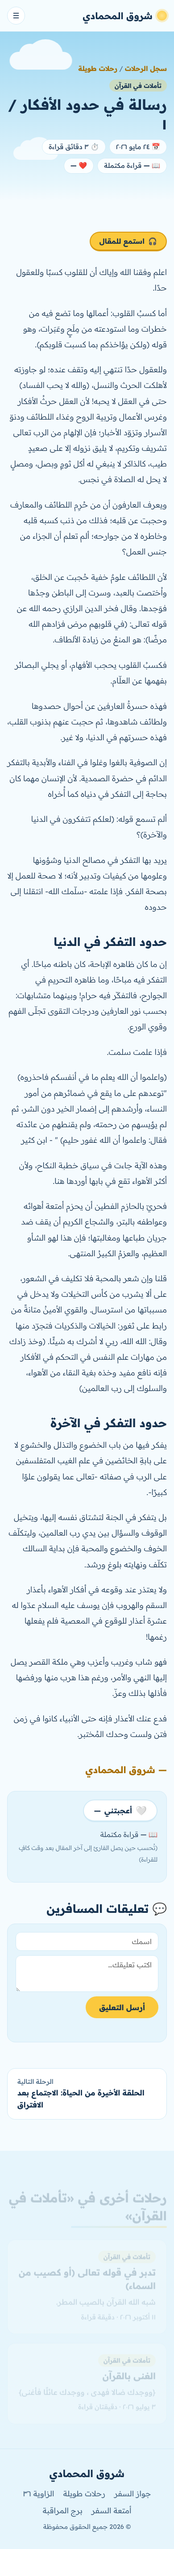
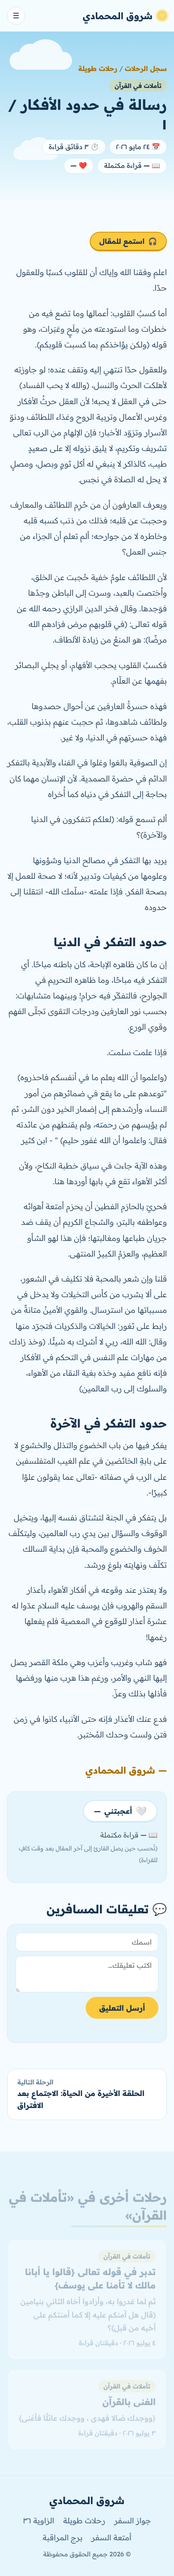
Add the article on {قالوا يا أبانا مالك لا تأمنا على يوسف}
Claude-Session: https://claude.ai/code/session_0148avAa54TH8wvGnnB1ukQi

diff --git a/blog/articles/la-tamanna-ala-yusuf.html b/blog/articles/la-tamanna-ala-yusuf.html
@@ -1,0 +1,132 @@
+<!doctype html>
+<html lang="ar" dir="rtl">
+<head>
+  <meta charset="utf-8">
+  <meta name="viewport" content="width=device-width, initial-scale=1">
+  <title>تدبر في قوله تعالى {قالوا يا أبانا مالك لا تأمنا على يوسف} · شروق المحمادي</title>
+  <meta name="description" content="ثم لما غدروا به، وأرادوا أخاه الثاني بنيامين (قال هل آمنكم عليه إلا كما أمنتكم على أخيه من قبل)؟">
+  <script>try{var t=localStorage.getItem("theme");if(t)document.documentElement.dataset.theme=t;}catch(e){}</script>
+  <link rel="preconnect" href="https://fonts.googleapis.com">
+  <link rel="preconnect" href="https://fonts.gstatic.com" crossorigin>
+  <link href="https://fonts.googleapis.com/css2?family=Readex+Pro:wght@300;400;500;600;700&family=Amiri+Quran&display=swap" rel="stylesheet">
+  <link rel="stylesheet" href="../../assets/styles.css">
+</head>
+<body>
+  <header class="site-header">
+    <div class="container nav">
+      <a href="../../index.html" class="logo"><span class="logo-sun" aria-hidden="true"></span>شروق المحمادي</a>
+      <button class="menu-toggle" aria-label="فتح القائمة" aria-expanded="false">☰</button>
+      <nav class="nav-links" aria-label="القائمة الرئيسية">
+        <a href="../../index.html">صالة المغادرة</a>
+        <a href="../../sira.html">جواز السفر</a>
+        <div class="has-sub">
+          <a href="../../blog/index.html" class="active">سجل الرحلات <span class="caret" aria-hidden="true">▾</span></a>
+          <div class="sub">
+            <a href="../../blog/articles.html" class="active">رحلات طويلة</a>
+            <a href="../../blog/zawiya-36.html">الزاوية ٣٦</a>
+          </div>
+        </div>
+        <a href="../../books.html">أمتعة السفر</a>
+        <a href="../../contact.html">برج المراقبة</a>
+        <button class="theme-toggle" aria-label="تبديل الوضع الليلي">🌙</button>
+      </nav>
+    </div>
+  </header>
+
+  <main>
+    <section class="page-hero article-hero">
+      <div class="clouds" aria-hidden="true"><span class="cloud c1"></span><span class="cloud c2"></span></div>
+      <div class="container narrow">
+        <nav class="crumbs" aria-label="مسار التنقل"><a href="../index.html">سجل الرحلات</a> / <a href="../articles.html">رحلات طويلة</a></nav>
+        <span class="tag">تأملات في القرآن</span>
+        <h1>تدبر في قوله تعالى {قالوا يا أبانا مالك لا تأمنا على يوسف}</h1>
+        <ul class="post-meta">
+          <li>📅 ٤ يوليو ٢٠٢٦</li>
+          <li>⏱ دقيقتان قراءة</li>
+          <li>📖 <b class="read-count">…</b> قراءة مكتملة</li>
+          <li>❤ <b class="like-count">…</b></li>
+        </ul>
+      </div>
+    </section>
+
+    <article class="section" id="post" data-slug="la-tamanna-ala-yusuf" data-minutes="1.94">
+      <div class="container narrow prose">
+        <div class="listen" hidden>
+          <button class="listen-btn" type="button"><span class="listen-icon" aria-hidden="true">🎧</span> <span class="listen-label">استمع للمقال</span></button>
+          <button class="listen-stop" type="button" hidden>⏹ إيقاف</button>
+          <button class="listen-rate" type="button" hidden>السرعة ١×</button>
+          <span class="listen-status" role="status"></span>
+        </div>
+        <p>ثم لما غدروا به، وأرادوا أخاه الثاني بنيامين (قال هل آمنكم عليه إلا كما أمنتكم على أخيه من قبل)؟</p>
+        <p>تدبر الكلمات المشتركة: تأمنا، آمنكم؟</p>
+        <p>الإنسان يعطي الثقة والأمان مرة واحدة، ثم إذا جُرح يشك ألف مرة ولا يثق ولا يعطِ الأمان</p>
+        <p>من فطنة يعقوب عليه السلام أنه لما أصروا عليه في أخذ بنيامين أنه أخذ عليهم العهود والمواثيق واستثنى (قال لن أرسله معكم حتى تأتوني موثقًا من الله لتأتونني به إلا أن يحاط بكم) وفيه أن للمغدور ألا يثق بالغادر ولو لمرة كانت غدرته، وإعطاء الأمان له لا يكون إلا بالحيطة والحذر والاحتراز والاحتراس بأخذ المواثيق والكتابة والعقد والشهود وغيرها من وسائل ليأمن حقه ويحفظه صيانةً</p>
+        <p>طبيعة العقل البشري: البناء على الحُكم والتجربة الأولى. ولهذا لما قالوا له عن أخذ العزيز لبنيامين وهم صادقون الآن (قال بل سولت لكم أنفسكم أمرًا). وهو قالها لأنه بشر تجري عليه طبيعة الأحكام البشرية الفطرية وإلا فإن نبي الله يعقوب عليه السلام قد مدح الله علمه (وإنه لذو علم لما علمناه) فكل ماقاله لا يقدح في علمه.</p>
+        <p>ورغم تألمه من مرارة التجربتين (فقد يوسف وبنيامين) كان حسن ظنه بالله عالٍ جدًا وهذا والله أعلم هو علمه الممدوح وما يثمره العلم من خشية وحسن الظن (قال بل سولت لكم أنفسكم أمرًا فصبر جميل عسى الله أن يأتيني بهم جميعًا إنه هو العليم الحكيم) وقوله (يا بني اذهبوا فتحسسوا من يوسف وأخيه ولا تيأسوا من روح الله إنه لا ييأس من روح الله إلا القوم الكافرون).</p>
+        <p>ونستفيد من هذا أن الإنسان لا يحكم على التجربة الأولى لأنها فشلت وخابت؛ فقد يكون في التجربة الثانية نجاحًا وفلاحًا عظيمًا.</p>
+        <p>والبناء على التجربة الأولى (يذكره بمشاعر الإحباط والكره واليأس وغيرها) يضيّع عليه فُرص الفهم والعلاقات والإنتاج والعمل والكثير من المنافع الضائعة كانت لأننا بنينا على مرارة الأولى</p>
+        <p>وألا يحكم الإنسان على الخلق والناس بنفس المنظور والتصور فإنه من ضيق النفس والجهل، ولكن ينوّع الأحكام عليهم بين حسن ظن وسوء</p>
+        <p>وقال د.وهبه الزحيلي في صفات القاضي:</p>
+        <p>"معرفة الناس وأحوالهم، والتبصر بمكرهم وخداعهم، ولا ينبغي أن يُحسن الظن بهم، بل يكون حذرًا فطنًا مما يصورونه في سؤالاتهم، لعلّا يبرعوا في المكروه، ويزيده حديث: «احترسوا من الناس بسوء الظن»."</p>
+        <p>ومنها أن يطلع على قصص المكائد والخدع والمكر ويُجالس أعدءاه وأصدقاءه ليكتسب هذا العلم! فإنه ليس في الكتب بل في المجالس.</p>
+        <p>حتى لا يكون مخدوعًا ويكون فطنًا نبيهًا، لأن من يقع في الخديعة بسبب جهله بها، وكل خديعة ما انطلت عليك فذلك لتوفيق الله لك أولًا ثم لعلمك بها ثانيًا</p>
+        <p class="signature">— شروق المحمادي</p>
+        <div class="engage">
+          <button class="like-btn" type="button" aria-pressed="false"><span class="heart" aria-hidden="true">🤍</span> أعجبتني <b class="like-count">…</b></button>
+          <p class="reads-note">📖 <b class="read-count">…</b> قراءة مكتملة <small>(تُحسب حين يصل القارئ إلى آخر المقال بعد وقت كافٍ للقراءة)</small></p>
+        </div>
+        <section class="comments" hidden aria-labelledby="comments-title">
+          <h2 id="comments-title">💬 تعليقات المسافرين</h2>
+          <form class="comment-form" novalidate>
+            <input name="name" type="text" maxlength="40" placeholder="اسمك" aria-label="الاسم" autocomplete="nickname">
+            <textarea name="body" rows="3" maxlength="1000" placeholder="اكتب تعليقك…" aria-label="التعليق"></textarea>
+            <input name="website" class="hp" type="text" tabindex="-1" autocomplete="off" aria-hidden="true">
+            <button type="submit" class="btn btn-primary">أرسل التعليق</button>
+            <p class="comment-status" role="status"></p>
+          </form>
+          <ol class="comment-list"></ol>
+          <p class="no-comments" hidden>لا تعليقات بعد… كن أول من يعلّق ✈</p>
+        </section>
+        <nav class="post-nav" aria-label="تنقل بين الرحلات"><a class="pn prev" href="al-ghina-bil-quran.html"><span>الرحلة السابقة</span>الغنى بالقرآن</a></nav>
+      </div>
+    </article>
+
+    <section class="section alt">
+      <div class="container">
+        <h2 class="section-title">رحلات أخرى في «تأملات في القرآن»</h2>
+        <div class="posts">
+          <article class="post-card" data-tag="تأملات في القرآن">
+            <span class="tag">تأملات في القرآن</span>
+            <h3><a class="stretched" href="../articles/al-ghina-bil-quran.html">الغنى بالقرآن</a></h3>
+            <p>{ووجدك ضالا فهدى ، ووجدك عائلًا فأغنى}</p>
+            <p class="meta">٣ يوليو ٢٠٢٦ · دقيقتان قراءة</p>
+          </article>
+          <article class="post-card" data-tag="تأملات في القرآن">
+            <span class="tag">تأملات في القرآن</span>
+            <h3><a class="stretched" href="../articles/aw-ka-sayyib.html">تدبر في قوله تعالى (أو كصيب من السماء)</a></h3>
+            <p>شبه الله القرآن بالصيب المطر.</p>
+            <p class="meta">٣ يوليو ٢٠٢٦ · دقيقة قراءة</p>
+          </article>
+        </div>
+      </div>
+    </section>
+
+  </main>
+
+  <footer class="site-footer">
+    <div class="container footer-inner">
+      <p class="footer-name">شروق المحمادي</p>
+      <nav class="footer-links" aria-label="روابط التذييل">
+        <a href="../../sira.html">جواز السفر</a>
+        <a href="../../blog/articles.html">رحلات طويلة</a>
+        <a href="../../blog/zawiya-36.html">الزاوية ٣٦</a>
+        <a href="../../books.html">أمتعة السفر</a>
+        <a href="../../contact.html">برج المراقبة</a>
+      </nav>
+      <p class="copy">© <span class="year"></span> جميع الحقوق محفوظة</p>
+    </div>
+  </footer>
+
+  <script src="../../assets/script.js"></script>
+</body>
+</html>

diff --git a/blog/articles/al-ghina-bil-quran.html b/blog/articles/al-ghina-bil-quran.html
@@ -87,7 +87,7 @@
           <ol class="comment-list"></ol>
           <p class="no-comments" hidden>لا تعليقات بعد… كن أول من يعلّق ✈</p>
         </section>
-        <nav class="post-nav" aria-label="تنقل بين الرحلات"><a class="pn prev" href="aw-ka-sayyib.html"><span>الرحلة السابقة</span>تدبر في قوله تعالى (أو كصيب من السماء)</a></nav>
+        <nav class="post-nav" aria-label="تنقل بين الرحلات"><a class="pn prev" href="aw-ka-sayyib.html"><span>الرحلة السابقة</span>تدبر في قوله تعالى (أو كصيب من السماء)</a><a class="pn next" href="la-tamanna-ala-yusuf.html"><span>الرحلة التالية</span>تدبر في قوله تعالى {قالوا يا أبانا مالك لا تأمنا على يوسف}</a></nav>
       </div>
     </article>
 
@@ -97,15 +97,15 @@
         <div class="posts">
           <article class="post-card" data-tag="تأملات في القرآن">
             <span class="tag">تأملات في القرآن</span>
-            <h3><a class="stretched" href="../articles/aw-ka-sayyib.html">تدبر في قوله تعالى (أو كصيب من السماء)</a></h3>
-            <p>شبه الله القرآن بالصيب المطر.</p>
-            <p class="meta">٣ يوليو ٢٠٢٦ · دقيقة قراءة</p>
+            <h3><a class="stretched" href="../articles/la-tamanna-ala-yusuf.html">تدبر في قوله تعالى {قالوا يا أبانا مالك لا تأمنا على يوسف}</a></h3>
+            <p>ثم لما غدروا به، وأرادوا أخاه الثاني بنيامين (قال هل آمنكم عليه إلا كما أمنتكم على أخيه من قبل)؟</p>
+            <p class="meta">٤ يوليو ٢٠٢٦ · دقيقتان قراءة</p>
           </article>
           <article class="post-card" data-tag="تأملات في القرآن">
             <span class="tag">تأملات في القرآن</span>
-            <h3><a class="stretched" href="../articles/wa-in-kana-makruhum.html">تأملات في قول الله تعالى (وإن كان مكرهم لتزول منه الجبال)</a></h3>
-            <p>أن من تعرض للمكر والكيد والظلم؛ فيه دلالةٌ على عظمته؛ لأن الله قاسها على الجبل وهي أعظم مخلوقاته، ودليل على عظمة محمد صلى الله عليه وسلم.</p>
-            <p class="meta">٢ يوليو ٢٠٢٦ · دقيقة قراءة</p>
+            <h3><a class="stretched" href="../articles/aw-ka-sayyib.html">تدبر في قوله تعالى (أو كصيب من السماء)</a></h3>
+            <p>شبه الله القرآن بالصيب المطر.</p>
+            <p class="meta">٣ يوليو ٢٠٢٦ · دقيقة قراءة</p>
           </article>
         </div>
       </div>

diff --git a/blog/index.html b/blog/index.html
@@ -50,7 +50,7 @@
             <span class="door-icon">✍</span>
             <h2>رحلات طويلة</h2>
             <p>نصوص أطول أتعمّق فيها في فكرة أو تجربة أو كتاب.</p>
-            <span class="count">٥ رحلات</span>
+            <span class="count">٦ رحلات</span>
           </a>
           <a class="blog-door night" href="zawiya-36.html">
             <span class="door-icon">🌙</span>
@@ -71,6 +71,12 @@
         <div class="posts">
           <article class="post-card" data-tag="تأملات في القرآن">
             <span class="tag">تأملات في القرآن</span>
+            <h3><a class="stretched" href="articles/la-tamanna-ala-yusuf.html">تدبر في قوله تعالى {قالوا يا أبانا مالك لا تأمنا على يوسف}</a></h3>
+            <p>ثم لما غدروا به، وأرادوا أخاه الثاني بنيامين (قال هل آمنكم عليه إلا كما أمنتكم على أخيه من قبل)؟</p>
+            <p class="meta">٤ يوليو ٢٠٢٦ · دقيقتان قراءة</p>
+          </article>
+          <article class="post-card" data-tag="تأملات في القرآن">
+            <span class="tag">تأملات في القرآن</span>
             <h3><a class="stretched" href="articles/al-ghina-bil-quran.html">الغنى بالقرآن</a></h3>
             <p>{ووجدك ضالا فهدى ، ووجدك عائلًا فأغنى}</p>
             <p class="meta">٣ يوليو ٢٠٢٦ · دقيقتان قراءة</p>
@@ -80,12 +86,6 @@
             <h3><a class="stretched" href="articles/aw-ka-sayyib.html">تدبر في قوله تعالى (أو كصيب من السماء)</a></h3>
             <p>شبه الله القرآن بالصيب المطر.</p>
             <p class="meta">٣ يوليو ٢٠٢٦ · دقيقة قراءة</p>
-          </article>
-          <article class="post-card" data-tag="تأملات في القرآن">
-            <span class="tag">تأملات في القرآن</span>
-            <h3><a class="stretched" href="articles/wa-in-kana-makruhum.html">تأملات في قول الله تعالى (وإن كان مكرهم لتزول منه الجبال)</a></h3>
-            <p>أن من تعرض للمكر والكيد والظلم؛ فيه دلالةٌ على عظمته؛ لأن الله قاسها على الجبل وهي أعظم مخلوقاته، ودليل على عظمة محمد صلى الله عليه وسلم.</p>
-            <p class="meta">٢ يوليو ٢٠٢٦ · دقيقة قراءة</p>
           </article>
         </div>
       </div>

diff --git a/index.html b/index.html
@@ -77,6 +77,12 @@
         <div class="posts">
           <article class="post-card" data-tag="تأملات في القرآن">
             <span class="tag">تأملات في القرآن</span>
+            <h3><a class="stretched" href="blog/articles/la-tamanna-ala-yusuf.html">تدبر في قوله تعالى {قالوا يا أبانا مالك لا تأمنا على يوسف}</a></h3>
+            <p>ثم لما غدروا به، وأرادوا أخاه الثاني بنيامين (قال هل آمنكم عليه إلا كما أمنتكم على أخيه من قبل)؟</p>
+            <p class="meta">٤ يوليو ٢٠٢٦ · دقيقتان قراءة</p>
+          </article>
+          <article class="post-card" data-tag="تأملات في القرآن">
+            <span class="tag">تأملات في القرآن</span>
             <h3><a class="stretched" href="blog/articles/al-ghina-bil-quran.html">الغنى بالقرآن</a></h3>
             <p>{ووجدك ضالا فهدى ، ووجدك عائلًا فأغنى}</p>
             <p class="meta">٣ يوليو ٢٠٢٦ · دقيقتان قراءة</p>
@@ -86,12 +92,6 @@
             <h3><a class="stretched" href="blog/articles/aw-ka-sayyib.html">تدبر في قوله تعالى (أو كصيب من السماء)</a></h3>
             <p>شبه الله القرآن بالصيب المطر.</p>
             <p class="meta">٣ يوليو ٢٠٢٦ · دقيقة قراءة</p>
-          </article>
-          <article class="post-card" data-tag="تأملات في القرآن">
-            <span class="tag">تأملات في القرآن</span>
-            <h3><a class="stretched" href="blog/articles/wa-in-kana-makruhum.html">تأملات في قول الله تعالى (وإن كان مكرهم لتزول منه الجبال)</a></h3>
-            <p>أن من تعرض للمكر والكيد والظلم؛ فيه دلالةٌ على عظمته؛ لأن الله قاسها على الجبل وهي أعظم مخلوقاته، ودليل على عظمة محمد صلى الله عليه وسلم.</p>
-            <p class="meta">٢ يوليو ٢٠٢٦ · دقيقة قراءة</p>
           </article>
         </div>
       </div>

diff --git a/blog/articles/aw-ka-sayyib.html b/blog/articles/aw-ka-sayyib.html
@@ -100,15 +100,15 @@
         <div class="posts">
           <article class="post-card" data-tag="تأملات في القرآن">
             <span class="tag">تأملات في القرآن</span>
-            <h3><a class="stretched" href="../articles/al-ghina-bil-quran.html">الغنى بالقرآن</a></h3>
-            <p>{ووجدك ضالا فهدى ، ووجدك عائلًا فأغنى}</p>
-            <p class="meta">٣ يوليو ٢٠٢٦ · دقيقتان قراءة</p>
+            <h3><a class="stretched" href="../articles/la-tamanna-ala-yusuf.html">تدبر في قوله تعالى {قالوا يا أبانا مالك لا تأمنا على يوسف}</a></h3>
+            <p>ثم لما غدروا به، وأرادوا أخاه الثاني بنيامين (قال هل آمنكم عليه إلا كما أمنتكم على أخيه من قبل)؟</p>
+            <p class="meta">٤ يوليو ٢٠٢٦ · دقيقتان قراءة</p>
           </article>
           <article class="post-card" data-tag="تأملات في القرآن">
             <span class="tag">تأملات في القرآن</span>
-            <h3><a class="stretched" href="../articles/wa-in-kana-makruhum.html">تأملات في قول الله تعالى (وإن كان مكرهم لتزول منه الجبال)</a></h3>
-            <p>أن من تعرض للمكر والكيد والظلم؛ فيه دلالةٌ على عظمته؛ لأن الله قاسها على الجبل وهي أعظم مخلوقاته، ودليل على عظمة محمد صلى الله عليه وسلم.</p>
-            <p class="meta">٢ يوليو ٢٠٢٦ · دقيقة قراءة</p>
+            <h3><a class="stretched" href="../articles/al-ghina-bil-quran.html">الغنى بالقرآن</a></h3>
+            <p>{ووجدك ضالا فهدى ، ووجدك عائلًا فأغنى}</p>
+            <p class="meta">٣ يوليو ٢٠٢٦ · دقيقتان قراءة</p>
           </article>
         </div>
       </div>

diff --git a/blog/articles/al-ijtima-bad-al-iftiraq.html b/blog/articles/al-ijtima-bad-al-iftiraq.html
@@ -149,15 +149,15 @@
         <div class="posts">
           <article class="post-card" data-tag="تأملات في القرآن">
             <span class="tag">تأملات في القرآن</span>
-            <h3><a class="stretched" href="../articles/al-ghina-bil-quran.html">الغنى بالقرآن</a></h3>
-            <p>{ووجدك ضالا فهدى ، ووجدك عائلًا فأغنى}</p>
-            <p class="meta">٣ يوليو ٢٠٢٦ · دقيقتان قراءة</p>
+            <h3><a class="stretched" href="../articles/la-tamanna-ala-yusuf.html">تدبر في قوله تعالى {قالوا يا أبانا مالك لا تأمنا على يوسف}</a></h3>
+            <p>ثم لما غدروا به، وأرادوا أخاه الثاني بنيامين (قال هل آمنكم عليه إلا كما أمنتكم على أخيه من قبل)؟</p>
+            <p class="meta">٤ يوليو ٢٠٢٦ · دقيقتان قراءة</p>
           </article>
           <article class="post-card" data-tag="تأملات في القرآن">
             <span class="tag">تأملات في القرآن</span>
-            <h3><a class="stretched" href="../articles/aw-ka-sayyib.html">تدبر في قوله تعالى (أو كصيب من السماء)</a></h3>
-            <p>شبه الله القرآن بالصيب المطر.</p>
-            <p class="meta">٣ يوليو ٢٠٢٦ · دقيقة قراءة</p>
+            <h3><a class="stretched" href="../articles/al-ghina-bil-quran.html">الغنى بالقرآن</a></h3>
+            <p>{ووجدك ضالا فهدى ، ووجدك عائلًا فأغنى}</p>
+            <p class="meta">٣ يوليو ٢٠٢٦ · دقيقتان قراءة</p>
           </article>
         </div>
       </div>

diff --git a/blog/articles/hudud-al-afkar-1.html b/blog/articles/hudud-al-afkar-1.html
@@ -107,15 +107,15 @@
         <div class="posts">
           <article class="post-card" data-tag="تأملات في القرآن">
             <span class="tag">تأملات في القرآن</span>
-            <h3><a class="stretched" href="../articles/al-ghina-bil-quran.html">الغنى بالقرآن</a></h3>
-            <p>{ووجدك ضالا فهدى ، ووجدك عائلًا فأغنى}</p>
-            <p class="meta">٣ يوليو ٢٠٢٦ · دقيقتان قراءة</p>
+            <h3><a class="stretched" href="../articles/la-tamanna-ala-yusuf.html">تدبر في قوله تعالى {قالوا يا أبانا مالك لا تأمنا على يوسف}</a></h3>
+            <p>ثم لما غدروا به، وأرادوا أخاه الثاني بنيامين (قال هل آمنكم عليه إلا كما أمنتكم على أخيه من قبل)؟</p>
+            <p class="meta">٤ يوليو ٢٠٢٦ · دقيقتان قراءة</p>
           </article>
           <article class="post-card" data-tag="تأملات في القرآن">
             <span class="tag">تأملات في القرآن</span>
-            <h3><a class="stretched" href="../articles/aw-ka-sayyib.html">تدبر في قوله تعالى (أو كصيب من السماء)</a></h3>
-            <p>شبه الله القرآن بالصيب المطر.</p>
-            <p class="meta">٣ يوليو ٢٠٢٦ · دقيقة قراءة</p>
+            <h3><a class="stretched" href="../articles/al-ghina-bil-quran.html">الغنى بالقرآن</a></h3>
+            <p>{ووجدك ضالا فهدى ، ووجدك عائلًا فأغنى}</p>
+            <p class="meta">٣ يوليو ٢٠٢٦ · دقيقتان قراءة</p>
           </article>
         </div>
       </div>

diff --git a/blog/articles/wa-in-kana-makruhum.html b/blog/articles/wa-in-kana-makruhum.html
@@ -88,15 +88,15 @@
         <div class="posts">
           <article class="post-card" data-tag="تأملات في القرآن">
             <span class="tag">تأملات في القرآن</span>
-            <h3><a class="stretched" href="../articles/al-ghina-bil-quran.html">الغنى بالقرآن</a></h3>
-            <p>{ووجدك ضالا فهدى ، ووجدك عائلًا فأغنى}</p>
-            <p class="meta">٣ يوليو ٢٠٢٦ · دقيقتان قراءة</p>
+            <h3><a class="stretched" href="../articles/la-tamanna-ala-yusuf.html">تدبر في قوله تعالى {قالوا يا أبانا مالك لا تأمنا على يوسف}</a></h3>
+            <p>ثم لما غدروا به، وأرادوا أخاه الثاني بنيامين (قال هل آمنكم عليه إلا كما أمنتكم على أخيه من قبل)؟</p>
+            <p class="meta">٤ يوليو ٢٠٢٦ · دقيقتان قراءة</p>
           </article>
           <article class="post-card" data-tag="تأملات في القرآن">
             <span class="tag">تأملات في القرآن</span>
-            <h3><a class="stretched" href="../articles/aw-ka-sayyib.html">تدبر في قوله تعالى (أو كصيب من السماء)</a></h3>
-            <p>شبه الله القرآن بالصيب المطر.</p>
-            <p class="meta">٣ يوليو ٢٠٢٦ · دقيقة قراءة</p>
+            <h3><a class="stretched" href="../articles/al-ghina-bil-quran.html">الغنى بالقرآن</a></h3>
+            <p>{ووجدك ضالا فهدى ، ووجدك عائلًا فأغنى}</p>
+            <p class="meta">٣ يوليو ٢٠٢٦ · دقيقتان قراءة</p>
           </article>
         </div>
       </div>

diff --git a/blog/articles.html b/blog/articles.html
@@ -57,6 +57,12 @@
         <div class="posts" data-filterable>
           <article class="post-card" data-tag="تأملات في القرآن">
             <span class="tag">تأملات في القرآن</span>
+            <h3><a class="stretched" href="articles/la-tamanna-ala-yusuf.html">تدبر في قوله تعالى {قالوا يا أبانا مالك لا تأمنا على يوسف}</a></h3>
+            <p>ثم لما غدروا به، وأرادوا أخاه الثاني بنيامين (قال هل آمنكم عليه إلا كما أمنتكم على أخيه من قبل)؟</p>
+            <p class="meta">٤ يوليو ٢٠٢٦ · دقيقتان قراءة</p>
+          </article>
+          <article class="post-card" data-tag="تأملات في القرآن">
+            <span class="tag">تأملات في القرآن</span>
             <h3><a class="stretched" href="articles/al-ghina-bil-quran.html">الغنى بالقرآن</a></h3>
             <p>{ووجدك ضالا فهدى ، ووجدك عائلًا فأغنى}</p>
             <p class="meta">٣ يوليو ٢٠٢٦ · دقيقتان قراءة</p>

diff --git a/content/articles/la-tamanna-ala-yusuf.md b/content/articles/la-tamanna-ala-yusuf.md
@@ -1,0 +1,30 @@
+العنوان: تدبر في قوله تعالى {قالوا يا أبانا مالك لا تأمنا على يوسف}
+التاريخ: 2026-07-04
+التصنيف: تأملات في القرآن
+الملخص: ثم لما غدروا به، وأرادوا أخاه الثاني بنيامين (قال هل آمنكم عليه إلا كما أمنتكم على أخيه من قبل)؟
+
+ثم لما غدروا به، وأرادوا أخاه الثاني بنيامين (قال هل آمنكم عليه إلا كما أمنتكم على أخيه من قبل)؟
+
+تدبر الكلمات المشتركة: تأمنا، آمنكم؟
+
+الإنسان يعطي الثقة والأمان مرة واحدة، ثم إذا جُرح يشك ألف مرة ولا يثق ولا يعطِ الأمان
+
+من فطنة يعقوب عليه السلام أنه لما أصروا عليه في أخذ بنيامين أنه أخذ عليهم العهود والمواثيق واستثنى (قال لن أرسله معكم حتى تأتوني موثقًا من الله لتأتونني به إلا أن يحاط بكم) وفيه أن للمغدور ألا يثق بالغادر ولو لمرة كانت غدرته، وإعطاء الأمان له لا يكون إلا بالحيطة والحذر والاحتراز والاحتراس بأخذ المواثيق والكتابة والعقد والشهود وغيرها من وسائل ليأمن حقه ويحفظه صيانةً
+
+طبيعة العقل البشري: البناء على الحُكم والتجربة الأولى. ولهذا لما قالوا له عن أخذ العزيز لبنيامين وهم صادقون الآن (قال بل سولت لكم أنفسكم أمرًا). وهو قالها لأنه بشر تجري عليه طبيعة الأحكام البشرية الفطرية وإلا فإن نبي الله يعقوب عليه السلام قد مدح الله علمه (وإنه لذو علم لما علمناه) فكل ماقاله لا يقدح في علمه.
+
+ورغم تألمه من مرارة التجربتين (فقد يوسف وبنيامين) كان حسن ظنه بالله عالٍ جدًا وهذا والله أعلم هو علمه الممدوح وما يثمره العلم من خشية وحسن الظن (قال بل سولت لكم أنفسكم أمرًا فصبر جميل عسى الله أن يأتيني بهم جميعًا إنه هو العليم الحكيم) وقوله (يا بني اذهبوا فتحسسوا من يوسف وأخيه ولا تيأسوا من روح الله إنه لا ييأس من روح الله إلا القوم الكافرون).
+
+ونستفيد من هذا أن الإنسان لا يحكم على التجربة الأولى لأنها فشلت وخابت؛ فقد يكون في التجربة الثانية نجاحًا وفلاحًا عظيمًا.
+
+والبناء على التجربة الأولى (يذكره بمشاعر الإحباط والكره واليأس وغيرها) يضيّع عليه فُرص الفهم والعلاقات والإنتاج والعمل والكثير من المنافع الضائعة كانت لأننا بنينا على مرارة الأولى
+
+وألا يحكم الإنسان على الخلق والناس بنفس المنظور والتصور فإنه من ضيق النفس والجهل، ولكن ينوّع الأحكام عليهم بين حسن ظن وسوء
+
+وقال د.وهبه الزحيلي في صفات القاضي:
+
+"معرفة الناس وأحوالهم، والتبصر بمكرهم وخداعهم، ولا ينبغي أن يُحسن الظن بهم، بل يكون حذرًا فطنًا مما يصورونه في سؤالاتهم، لعلّا يبرعوا في المكروه، ويزيده حديث: «احترسوا من الناس بسوء الظن»."
+
+ومنها أن يطلع على قصص المكائد والخدع والمكر ويُجالس أعدءاه وأصدقاءه ليكتسب هذا العلم! فإنه ليس في الكتب بل في المجالس.
+
+حتى لا يكون مخدوعًا ويكون فطنًا نبيهًا، لأن من يقع في الخديعة بسبب جهله بها، وكل خديعة ما انطلت عليك فذلك لتوفيق الله لك أولًا ثم لعلمك بها ثانيًا
